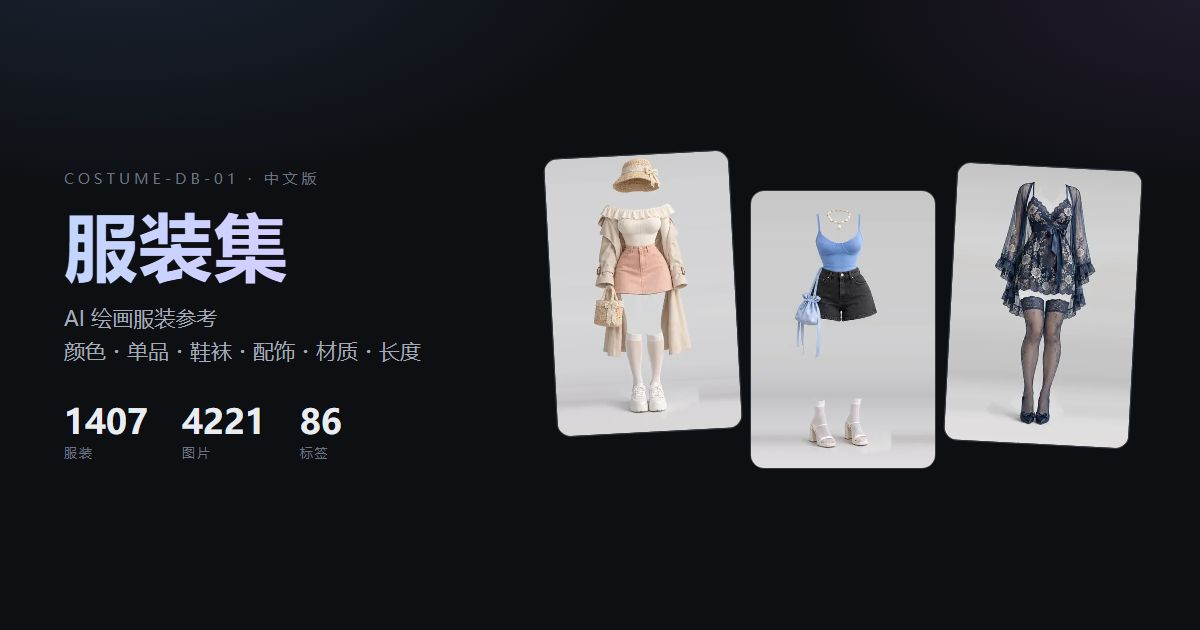
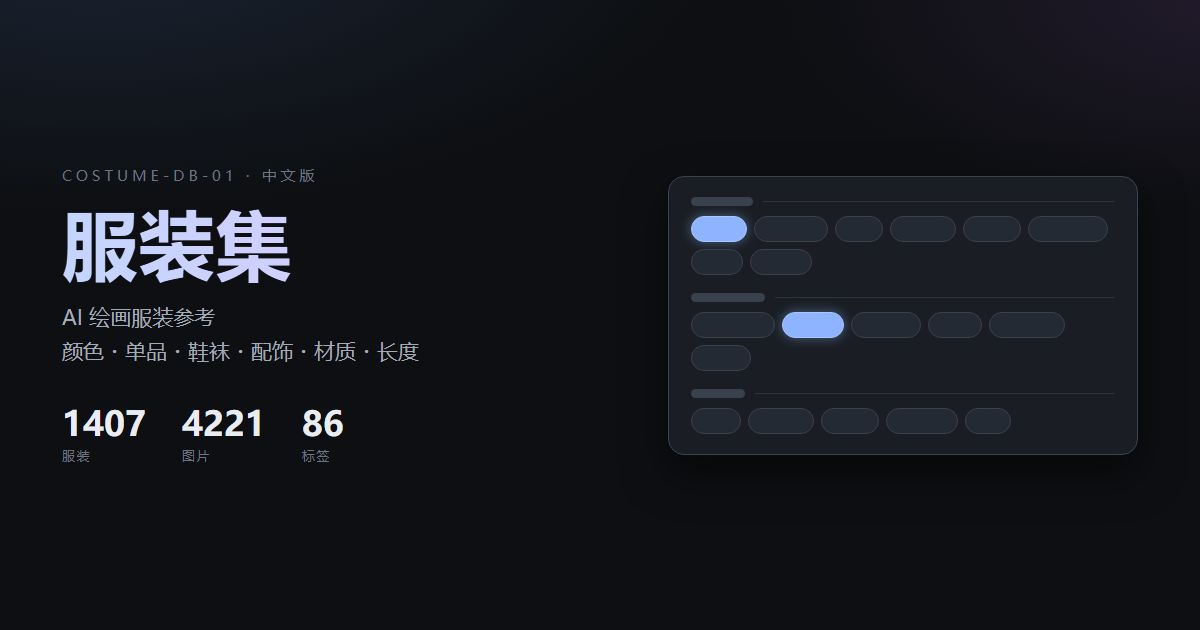
chore: 移除含缩略图的预览截图，封面改为纯排版设计
- 删除 docs/preview-1.jpg、docs/preview-2.jpg 与 README 的「页面预览」章节
- og-cover.jpg 重做为纯排版封面（深色底 + 文字 + 抽象标签块），不含任何原作内容
- NOTICE 补充说明：仓库唯一的图片是自制封面，不含素材
- 至此仓库内无任何第三方素材图片，与「禁止再分发」条款不冲突

diff --git a/README.md b/README.md
@@ -35,13 +35,6 @@
 - 🔎 **SEO 就绪**：robots.txt / sitemap.xml / 404.html / og-cover / JSON-LD 结构化数据
 - 💡 **提示词友好**：标签的英文原文随时可复制，直接用于 AI 出图
 
-## 📸 页面预览
-
-| 暗色 · 列表 | 浅色 · 分面筛选 |
-|:---:|:---:|
-| ![暗色主题](docs/preview-1.jpg) | ![筛选面板](docs/preview-2.jpg) |
-
-社交分享封面：`og-cover.jpg`（1200×630）
 
 ## 📊 数据规模
 
@@ -98,7 +91,6 @@
 │   ├── costume-zh.json     # 中文数据（含英/日/中三语标签）
 │   ├── meta.json           # 分类与标签分组元数据
 │   └── translations.csv    # 英→日→中对照表（94 条）
-├── docs/                   # 预览截图
 ├── scripts/
 │   ├── extract.py          # 从原站存档解析内嵌数据
 │   ├── manifest.py         # 生成清单
@@ -273,11 +265,6 @@ open_file_cache max=10000 inactive=60s;
 - 🌗 **2 テーマ** / 🌐 **2 言語**（設定は保存される）
 - 📦 **依存ゼロ**：単一 HTML、データ埋め込み、`file://` でそのまま開ける
 
-## 📸 画面プレビュー
-
-| ダーク · 一覧 | ライト · 絞り込み |
-|:---:|:---:|
-| ![ダーク](docs/preview-1.jpg) | ![絞り込み](docs/preview-2.jpg) |
 
 ## 📊 データ規模
 
@@ -336,11 +323,6 @@ Original author: ギア（[@giaaibusi](https://x.com/giaaibusi)）
 - 🌗 **Dual theme** and 🌐 **bilingual UI** with persisted preferences
 - 📦 **Zero dependencies**: one HTML file with embedded data — opens via `file://`, no server needed
 
-## 📸 Preview
-
-| Dark · list | Light · facets |
-|:---:|:---:|
-| ![dark](docs/preview-1.jpg) | ![facets](docs/preview-2.jpg) |
 
 ## 📊 Scale
 

diff --git a/NOTICE.md b/NOTICE.md
@@ -48,7 +48,10 @@
 | 拿图去做作品、商用创作、编辑、临摹参考 | ✅ 允许 |
 | 把图片文件本身再分发、转载、转售 | ❌ 禁止 |
 
-**本仓库不包含任何图片文件。** `.gitignore` 已排除 `thumbs/`、`img/`、`png/`。
+**本仓库不包含任何素材图片文件。** `.gitignore` 已排除 `thumbs/`、`img/`、`png/`。
+
+仓库中唯一的图片是 `og-cover.jpg`——本项目自制的**纯排版封面**（深色底 + 文字 + 抽象色块），
+不含任何原作内容，仅用于社交分享卡片。
 
 仓库中的 `scripts/download.py` 仅用于使用者从原始站点获取素材供**个人参考**，
 不构成对图片的再分发，也不改变上述条款。
